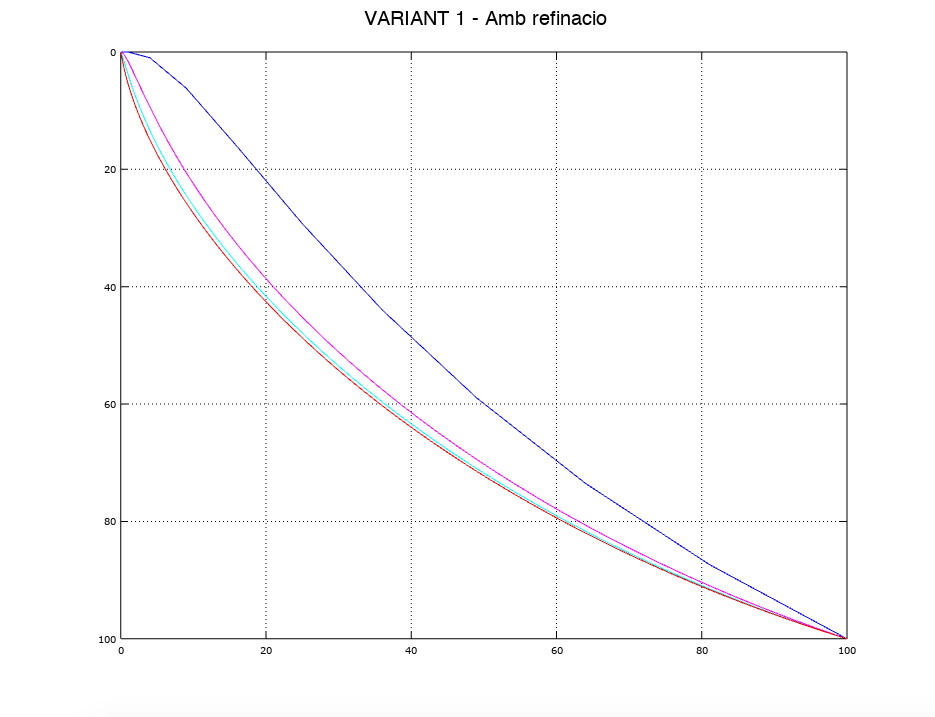
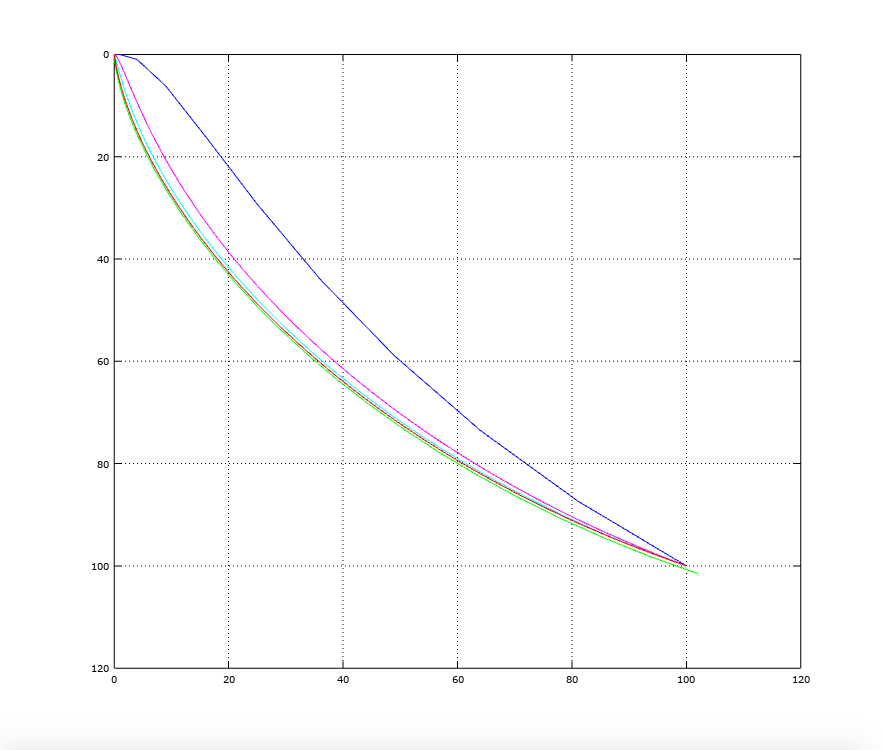
totes les gràfiques estan acabadessssssssss

diff --git a/braquistocrona/var1/grafiquesVar1SenseRef.m b/braquistocrona/var1/grafiquesVar1SenseRef.m
@@ -7,23 +7,24 @@ y = r*(1-cos(t));
 plot(x,y, "color", "g"); hold;
 
 #10 punts sense refinació - blau
-x = [0 ,1 ,4 ,9 ,16 ,25 ,36 ,49 ,64 ,81 ,100]; 
-y = [1e-12 ,0.0047782 ,0.976377 ,6.15185 ,16.087 ,29.2681 ,43.9572 ,58.9399 ,73.5254 ,87.3089 ,100]; 
+x = [0 ,10 ,20 ,30 ,40 ,50 ,60 ,70 ,80 ,90 ,100]; 
+y = [1e-12 ,0.0193269 ,2.78473 ,12.4953 ,25.9926 ,40.4005 ,54.3179 ,67.253 ,79.1277 ,90.0093 ,100]; 
 plot(x,y, "color", 'b');
 
 #50 punts sense refinació - magenta
-x = [0 ,0.04 ,0.16 ,0.36 ,0.64 ,1 ,1.44 ,1.96 ,2.56 ,3.24 ,4 ,4.84 ,5.76 ,6.76 ,7.84 ,9 ,10.24 ,11.56 ,12.96 ,14.44 ,16 ,17.64 ,19.36 ,21.16 ,23.04 ,25 ,27.04 ,29.16 ,31.36 ,33.64 ,36 ,38.44 ,40.96 ,43.56 ,46.24 ,49 ,51.84 ,54.76 ,57.76 ,60.84 ,64 ,67.24 ,70.56 ,73.96 ,77.44 ,81 ,84.64 ,88.36 ,92.16 ,96.04 ,100]; 
-y = [1e-12 ,0.000366977 ,0.0469438 ,0.286603 ,0.799453 ,1.60644 ,2.6999 ,4.05604 ,5.64254 ,7.4239 ,9.3654 ,11.4356 ,13.6074 ,15.859 ,18.1725 ,20.5343 ,22.9335 ,25.3617 ,27.812 ,30.2791 ,32.7584 ,35.2459 ,37.7383 ,40.2325 ,42.7258 ,45.2155 ,47.6994 ,50.1749 ,52.6399 ,55.0923 ,57.53 ,59.9507 ,62.3526 ,64.7335 ,67.0914 ,69.4243 ,71.7302 ,74.0069 ,76.2526 ,78.4651 ,80.6423 ,82.7822 ,84.8826 ,86.9414 ,88.9565 ,90.9255 ,92.8462 ,94.7164 ,96.5337 ,98.2957 ,100]; 
+x = [0 ,2 ,4 ,6 ,8 ,10 ,12 ,14 ,16 ,18 ,20 ,22 ,24 ,26 ,28 ,30 ,32 ,34 ,36 ,38 ,40 ,42 ,44 ,46 ,48 ,50 ,52 ,54 ,56 ,58 ,60 ,62 ,64 ,66 ,68 ,70 ,72 ,74 ,76 ,78 ,80 ,82 ,84 ,86 ,88 ,90 ,92 ,94 ,96 ,98 ,100]; 
+y = [1e-12 ,0.00534903 ,0.610353 ,2.70123 ,5.7888 ,9.37971 ,13.1617 ,16.9513 ,20.65 ,24.2121 ,27.6215 ,30.8777 ,33.9873 ,36.9599 ,39.8057 ,42.5346 ,45.1557 ,47.6774 ,50.1071 ,52.4513 ,54.7159 ,56.9062 ,59.0267 ,61.0815 ,63.0746 ,65.009 ,66.888 ,68.7141 ,70.49 ,72.2179 ,73.8998 ,75.5376 ,77.1331 ,78.6879 ,80.2035 ,81.6812 ,83.1224 ,84.5281 ,85.8996 ,87.2378 ,88.5437 ,89.8182 ,91.0621 ,92.2763 ,93.4615 ,94.6184 ,95.7476 ,96.8498 ,97.9256 ,98.9755 ,100]; 
 plot(x,y, "color", 'm');
 
 #200 punts sense refinació - cyan
-x = [0 ,0.0025 ,0.01 ,0.0225 ,0.04 ,0.0625 ,0.09 ,0.1225 ,0.16 ,0.2025 ,0.25 ,0.3025 ,0.36 ,0.4225 ,0.49 ,0.5625 ,0.64 ,0.7225 ,0.81 ,0.9025 ,1 ,1.1025 ,1.21 ,1.3225 ,1.44 ,1.5625 ,1.69 ,1.8225 ,1.96 ,2.1025 ,2.25 ,2.4025 ,2.56 ,2.7225 ,2.89 ,3.0625 ,3.24 ,3.4225 ,3.61 ,3.8025 ,4 ,4.2025 ,4.41 ,4.6225 ,4.84 ,5.0625 ,5.29 ,5.5225 ,5.76 ,6.0025 ,6.25 ,6.5025 ,6.76 ,7.0225 ,7.29 ,7.5625 ,7.84 ,8.1225 ,8.41 ,8.7025 ,9 ,9.3025 ,9.61 ,9.9225 ,10.24 ,10.5625 ,10.89 ,11.2225 ,11.56 ,11.9025 ,12.25 ,12.6025 ,12.96 ,13.3225 ,13.69 ,14.0625 ,14.44 ,14.8225 ,15.21 ,15.6025 ,16 ,16.4025 ,16.81 ,17.2225 ,17.64 ,18.0625 ,18.49 ,18.9225 ,19.36 ,19.8025 ,20.25 ,20.7025 ,21.16 ,21.6225 ,22.09 ,22.5625 ,23.04 ,23.5225 ,24.01 ,24.5025 ,25 ,25.5025 ,26.01 ,26.5225 ,27.04 ,27.5625 ,28.09 ,28.6225 ,29.16 ,29.7025 ,30.25 ,30.8025 ,31.36 ,31.9225 ,32.49 ,33.0625 ,33.64 ,34.2225 ,34.81 ,35.4025 ,36 ,36.6025 ,37.21 ,37.8225 ,38.44 ,39.0625 ,39.69 ,40.3225 ,40.96 ,41.6025 ,42.25 ,42.9025 ,43.56 ,44.2225 ,44.89 ,45.5625 ,46.24 ,46.9225 ,47.61 ,48.3025 ,49 ,49.7025 ,50.41 ,51.1225 ,51.84 ,52.5625 ,53.29 ,54.0225 ,54.76 ,55.5025 ,56.25 ,57.0025 ,57.76 ,58.5225 ,59.29 ,60.0625 ,60.84 ,61.6225 ,62.41 ,63.2025 ,64 ,64.8025 ,65.61 ,66.4225 ,67.24 ,68.0625 ,68.89 ,69.7225 ,70.56 ,71.4025 ,72.25 ,73.1025 ,73.96 ,74.8225 ,75.69 ,76.5625 ,77.44 ,78.3225 ,79.21 ,80.1025 ,81 ,81.9025 ,82.81 ,83.7225 ,84.64 ,85.5625 ,86.49 ,87.4225 ,88.36 ,89.3025 ,90.25 ,91.2025 ,92.16 ,93.1225 ,94.09 ,95.0625 ,96.04 ,97.0225 ,98.01 ,99.0025 ,100]; 
-y = [1e-12 ,4.0323e-05 ,0.00341836 ,0.0195923 ,0.0546356 ,0.111918 ,0.193487 ,0.300528 ,0.433597 ,0.592767 ,0.777732 ,0.987884 ,1.22238 ,1.48021 ,1.76022 ,2.06118 ,2.3818 ,2.72078 ,3.07681 ,3.44864 ,3.83504 ,4.23486 ,4.64702 ,5.07049 ,5.50435 ,5.94775 ,6.39991 ,6.86014 ,7.32779 ,7.80231 ,8.28319 ,8.76996 ,9.26223 ,9.75962 ,10.2618 ,10.7685 ,11.2794 ,11.7944 ,12.3131 ,12.8354 ,13.3611 ,13.89 ,14.422 ,14.957 ,15.4948 ,16.0353 ,16.5784 ,17.124 ,17.6719 ,18.2222 ,18.7746 ,19.3292 ,19.8858 ,20.4443 ,21.0048 ,21.5671 ,22.1311 ,22.6968 ,23.2641 ,23.833 ,24.4034 ,24.9752 ,25.5484 ,26.123 ,26.6988 ,27.2759 ,27.8541 ,28.4334 ,29.0138 ,29.5953 ,30.1777 ,30.761 ,31.3452 ,31.9303 ,32.5161 ,33.1027 ,33.69 ,34.278 ,34.8665 ,35.4557 ,36.0453 ,36.6355 ,37.2261 ,37.8171 ,38.4085 ,39.0002 ,39.5922 ,40.1844 ,40.7769 ,41.3695 ,41.9623 ,42.5551 ,43.148 ,43.741 ,44.3339 ,44.9267 ,45.5195 ,46.1121 ,46.7046 ,47.2968 ,47.8889 ,48.4806 ,49.072 ,49.6631 ,50.2538 ,50.8441 ,51.434 ,52.0233 ,52.6121 ,53.2004 ,53.7881 ,54.3751 ,54.9615 ,55.5472 ,56.1322 ,56.7164 ,57.2998 ,57.8824 ,58.4641 ,59.0449 ,59.6248 ,60.2037 ,60.7816 ,61.3585 ,61.9343 ,62.509 ,63.0826 ,63.655 ,64.2262 ,64.7962 ,65.3649 ,65.9323 ,66.4983 ,67.063 ,67.6263 ,68.1882 ,68.7486 ,69.3075 ,69.8648 ,70.4206 ,70.9748 ,71.5274 ,72.0782 ,72.6274 ,73.1749 ,73.7206 ,74.2644 ,74.8065 ,75.3467 ,75.8849 ,76.4213 ,76.9556 ,77.488 ,78.0183 ,78.5466 ,79.0727 ,79.5967 ,80.1186 ,80.6382 ,81.1556 ,81.6707 ,82.1835 ,82.694 ,83.202 ,83.7077 ,84.2109 ,84.7117 ,85.2099 ,85.7055 ,86.1986 ,86.689 ,87.1768 ,87.6619 ,88.1442 ,88.6238 ,89.1006 ,89.5745 ,90.0456 ,90.5138 ,90.979 ,91.4412 ,91.9004 ,92.3565 ,92.8095 ,93.2594 ,93.7062 ,94.1497 ,94.5899 ,95.0269 ,95.4606 ,95.8909 ,96.3177 ,96.7412 ,97.1611 ,97.5776 ,97.9904 ,98.3997 ,98.8054 ,99.2073 ,99.6055 ,100]; 
+x = [0 ,0.5 ,1 ,1.5 ,2 ,2.5 ,3 ,3.5 ,4 ,4.5 ,5 ,5.5 ,6 ,6.5 ,7 ,7.5 ,8 ,8.5 ,9 ,9.5 ,10 ,10.5 ,11 ,11.5 ,12 ,12.5 ,13 ,13.5 ,14 ,14.5 ,15 ,15.5 ,16 ,16.5 ,17 ,17.5 ,18 ,18.5 ,19 ,19.5 ,20 ,20.5 ,21 ,21.5 ,22 ,22.5 ,23 ,23.5 ,24 ,24.5 ,25 ,25.5 ,26 ,26.5 ,27 ,27.5 ,28 ,28.5 ,29 ,29.5 ,30 ,30.5 ,31 ,31.5 ,32 ,32.5 ,33 ,33.5 ,34 ,34.5 ,35 ,35.5 ,36 ,36.5 ,37 ,37.5 ,38 ,38.5 ,39 ,39.5 ,40 ,40.5 ,41 ,41.5 ,42 ,42.5 ,43 ,43.5 ,44 ,44.5 ,45 ,45.5 ,46 ,46.5 ,47 ,47.5 ,48 ,48.5 ,49 ,49.5 ,50 ,50.5 ,51 ,51.5 ,52 ,52.5 ,53 ,53.5 ,54 ,54.5 ,55 ,55.5 ,56 ,56.5 ,57 ,57.5 ,58 ,58.5 ,59 ,59.5 ,60 ,60.5 ,61 ,61.5 ,62 ,62.5 ,63 ,63.5 ,64 ,64.5 ,65 ,65.5 ,66 ,66.5 ,67 ,67.5 ,68 ,68.5 ,69 ,69.5 ,70 ,70.5 ,71 ,71.5 ,72 ,72.5 ,73 ,73.5 ,74 ,74.5 ,75 ,75.5 ,76 ,76.5 ,77 ,77.5 ,78 ,78.5 ,79 ,79.5 ,80 ,80.5 ,81 ,81.5 ,82 ,82.5 ,83 ,83.5 ,84 ,84.5 ,85 ,85.5 ,86 ,86.5 ,87 ,87.5 ,88 ,88.5 ,89 ,89.5 ,90 ,90.5 ,91 ,91.5 ,92 ,92.5 ,93 ,93.5 ,94 ,94.5 ,95 ,95.5 ,96 ,96.5 ,97 ,97.5 ,98 ,98.5 ,99 ,99.5 ,100]; 
+y = [1e-12 ,0.00176979 ,0.164976 ,0.716104 ,1.55749 ,2.58889 ,3.74178 ,4.96811 ,6.23368 ,7.51433 ,8.79335 ,10.0595 ,11.3057 ,12.5275 ,13.7227 ,14.8902 ,16.03 ,17.1426 ,18.2287 ,19.2893 ,20.3257 ,21.3388 ,22.3299 ,23.2999 ,24.25 ,25.181 ,26.0941 ,26.9898 ,27.8692 ,28.733 ,29.5818 ,30.4163 ,31.2371 ,32.0448 ,32.8399 ,33.6229 ,34.3944 ,35.1546 ,35.904 ,36.6431 ,37.3721 ,38.0914 ,38.8013 ,39.5022 ,40.1942 ,40.8778 ,41.5531 ,42.2203 ,42.8798 ,43.5317 ,44.1762 ,44.8135 ,45.4438 ,46.0673 ,46.6842 ,47.2946 ,47.8987 ,48.4966 ,49.0884 ,49.6744 ,50.2546 ,50.8291 ,51.3981 ,51.9617 ,52.5201 ,53.0732 ,53.6212 ,54.1643 ,54.7024 ,55.2357 ,55.7644 ,56.2884 ,56.8078 ,57.3228 ,57.8334 ,58.3397 ,58.8417 ,59.3395 ,59.8333 ,60.323 ,60.8087 ,61.2905 ,61.7684 ,62.2425 ,62.7129 ,63.1796 ,63.6427 ,64.1021 ,64.5581 ,65.0105 ,65.4595 ,65.9051 ,66.3474 ,66.7863 ,67.222 ,67.6544 ,68.0837 ,68.5098 ,68.9328 ,69.3527 ,69.7697 ,70.1836 ,70.5945 ,71.0025 ,71.4076 ,71.8099 ,72.2093 ,72.6059 ,72.9997 ,73.3908 ,73.7792 ,74.1648 ,74.5479 ,74.9283 ,75.306 ,75.6812 ,76.0539 ,76.424 ,76.7916 ,77.1567 ,77.5194 ,77.8796 ,78.2374 ,78.5928 ,78.9458 ,79.2965 ,79.6448 ,79.9909 ,80.3346 ,80.6761 ,81.0153 ,81.3522 ,81.687 ,82.0196 ,82.3499 ,82.6781 ,83.0042 ,83.3281 ,83.6499 ,83.9697 ,84.2873 ,84.6029 ,84.9164 ,85.2278 ,85.5373 ,85.8447 ,86.1502 ,86.4537 ,86.7552 ,87.0547 ,87.3523 ,87.648 ,87.9418 ,88.2336 ,88.5236 ,88.8117 ,89.0979 ,89.3823 ,89.6649 ,89.9456 ,90.2245 ,90.5016 ,90.7768 ,91.0503 ,91.3221 ,91.592 ,91.8602 ,92.1267 ,92.3914 ,92.6544 ,92.9157 ,93.1753 ,93.4332 ,93.6894 ,93.944 ,94.1968 ,94.448 ,94.6976 ,94.9455 ,95.1917 ,95.4364 ,95.6794 ,95.9209 ,96.1607 ,96.3989 ,96.6355 ,96.8706 ,97.1041 ,97.336 ,97.5664 ,97.7953 ,98.0226 ,98.2483 ,98.4725 ,98.6953 ,98.9165 ,99.1362 ,99.3543 ,99.5711 ,99.7863 ,100]; 
 plot(x,y, "color", 'c');
 
 #1000 punts tant amb refinació com sense -  roig
 x = [0 ,0.0001 ,0.0004 ,0.0009 ,0.0016 ,0.0025 ,0.0036 ,0.0049 ,0.0064 ,0.0081 ,0.01 ,0.0121 ,0.0144 ,0.0169 ,0.0196 ,0.0225 ,0.0256 ,0.0289 ,0.0324 ,0.0361 ,0.04 ,0.0441 ,0.0484 ,0.0529 ,0.0576 ,0.0625 ,0.0676 ,0.0729 ,0.0784 ,0.0841 ,0.09 ,0.0961 ,0.1024 ,0.1089 ,0.1156 ,0.1225 ,0.1296 ,0.1369 ,0.1444 ,0.1521 ,0.16 ,0.1681 ,0.1764 ,0.1849 ,0.1936 ,0.2025 ,0.2116 ,0.2209 ,0.2304 ,0.2401 ,0.25 ,0.2601 ,0.2704 ,0.2809 ,0.2916 ,0.3025 ,0.3136 ,0.3249 ,0.3364 ,0.3481 ,0.36 ,0.3721 ,0.3844 ,0.3969 ,0.4096 ,0.4225 ,0.4356 ,0.4489 ,0.4624 ,0.4761 ,0.49 ,0.5041 ,0.5184 ,0.5329 ,0.5476 ,0.5625 ,0.5776 ,0.5929 ,0.6084 ,0.6241 ,0.64 ,0.6561 ,0.6724 ,0.6889 ,0.7056 ,0.7225 ,0.7396 ,0.7569 ,0.7744 ,0.7921 ,0.81 ,0.8281 ,0.8464 ,0.8649 ,0.8836 ,0.9025 ,0.9216 ,0.9409 ,0.9604 ,0.9801 ,1 ,1.0201 ,1.0404 ,1.0609 ,1.0816 ,1.1025 ,1.1236 ,1.1449 ,1.1664 ,1.1881 ,1.21 ,1.2321 ,1.2544 ,1.2769 ,1.2996 ,1.3225 ,1.3456 ,1.3689 ,1.3924 ,1.4161 ,1.44 ,1.4641 ,1.4884 ,1.5129 ,1.5376 ,1.5625 ,1.5876 ,1.6129 ,1.6384 ,1.6641 ,1.69 ,1.7161 ,1.7424 ,1.7689 ,1.7956 ,1.8225 ,1.8496 ,1.8769 ,1.9044 ,1.9321 ,1.96 ,1.9881 ,2.0164 ,2.0449 ,2.0736 ,2.1025 ,2.1316 ,2.1609 ,2.1904 ,2.2201 ,2.25 ,2.2801 ,2.3104 ,2.3409 ,2.3716 ,2.4025 ,2.4336 ,2.4649 ,2.4964 ,2.5281 ,2.56 ,2.5921 ,2.6244 ,2.6569 ,2.6896 ,2.7225 ,2.7556 ,2.7889 ,2.8224 ,2.8561 ,2.89 ,2.9241 ,2.9584 ,2.9929 ,3.0276 ,3.0625 ,3.0976 ,3.1329 ,3.1684 ,3.2041 ,3.24 ,3.2761 ,3.3124 ,3.3489 ,3.3856 ,3.4225 ,3.4596 ,3.4969 ,3.5344 ,3.5721 ,3.61 ,3.6481 ,3.6864 ,3.7249 ,3.7636 ,3.8025 ,3.8416 ,3.8809 ,3.9204 ,3.9601 ,4 ,4.0401 ,4.0804 ,4.1209 ,4.1616 ,4.2025 ,4.2436 ,4.2849 ,4.3264 ,4.3681 ,4.41 ,4.4521 ,4.4944 ,4.5369 ,4.5796 ,4.6225 ,4.6656 ,4.7089 ,4.7524 ,4.7961 ,4.84 ,4.8841 ,4.9284 ,4.9729 ,5.0176 ,5.0625 ,5.1076 ,5.1529 ,5.1984 ,5.2441 ,5.29 ,5.3361 ,5.3824 ,5.4289 ,5.4756 ,5.5225 ,5.5696 ,5.6169 ,5.6644 ,5.7121 ,5.76 ,5.8081 ,5.8564 ,5.9049 ,5.9536 ,6.0025 ,6.0516 ,6.1009 ,6.1504 ,6.2001 ,6.25 ,6.3001 ,6.3504 ,6.4009 ,6.4516 ,6.5025 ,6.5536 ,6.6049 ,6.6564 ,6.7081 ,6.76 ,6.8121 ,6.8644 ,6.9169 ,6.9696 ,7.0225 ,7.0756 ,7.1289 ,7.1824 ,7.2361 ,7.29 ,7.3441 ,7.3984 ,7.4529 ,7.5076 ,7.5625 ,7.6176 ,7.6729 ,7.7284 ,7.7841 ,7.84 ,7.8961 ,7.9524 ,8.0089 ,8.0656 ,8.1225 ,8.1796 ,8.2369 ,8.2944 ,8.3521 ,8.41 ,8.4681 ,8.5264 ,8.5849 ,8.6436 ,8.7025 ,8.7616 ,8.8209 ,8.8804 ,8.9401 ,9 ,9.0601 ,9.1204 ,9.1809 ,9.2416 ,9.3025 ,9.3636 ,9.4249 ,9.4864 ,9.5481 ,9.61 ,9.6721 ,9.7344 ,9.7969 ,9.8596 ,9.9225 ,9.9856 ,10.0489 ,10.1124 ,10.1761 ,10.24 ,10.3041 ,10.3684 ,10.4329 ,10.4976 ,10.5625 ,10.6276 ,10.6929 ,10.7584 ,10.8241 ,10.89 ,10.9561 ,11.0224 ,11.0889 ,11.1556 ,11.2225 ,11.2896 ,11.3569 ,11.4244 ,11.4921 ,11.56 ,11.6281 ,11.6964 ,11.7649 ,11.8336 ,11.9025 ,11.9716 ,12.0409 ,12.1104 ,12.1801 ,12.25 ,12.3201 ,12.3904 ,12.4609 ,12.5316 ,12.6025 ,12.6736 ,12.7449 ,12.8164 ,12.8881 ,12.96 ,13.0321 ,13.1044 ,13.1769 ,13.2496 ,13.3225 ,13.3956 ,13.4689 ,13.5424 ,13.6161 ,13.69 ,13.7641 ,13.8384 ,13.9129 ,13.9876 ,14.0625 ,14.1376 ,14.2129 ,14.2884 ,14.3641 ,14.44 ,14.5161 ,14.5924 ,14.6689 ,14.7456 ,14.8225 ,14.8996 ,14.9769 ,15.0544 ,15.1321 ,15.21 ,15.2881 ,15.3664 ,15.4449 ,15.5236 ,15.6025 ,15.6816 ,15.7609 ,15.8404 ,15.9201 ,16 ,16.0801 ,16.1604 ,16.2409 ,16.3216 ,16.4025 ,16.4836 ,16.5649 ,16.6464 ,16.7281 ,16.81 ,16.8921 ,16.9744 ,17.0569 ,17.1396 ,17.2225 ,17.3056 ,17.3889 ,17.4724 ,17.5561 ,17.64 ,17.7241 ,17.8084 ,17.8929 ,17.9776 ,18.0625 ,18.1476 ,18.2329 ,18.3184 ,18.4041 ,18.49 ,18.5761 ,18.6624 ,18.7489 ,18.8356 ,18.9225 ,19.0096 ,19.0969 ,19.1844 ,19.2721 ,19.36 ,19.4481 ,19.5364 ,19.6249 ,19.7136 ,19.8025 ,19.8916 ,19.9809 ,20.0704 ,20.1601 ,20.25 ,20.3401 ,20.4304 ,20.5209 ,20.6116 ,20.7025 ,20.7936 ,20.8849 ,20.9764 ,21.0681 ,21.16 ,21.2521 ,21.3444 ,21.4369 ,21.5296 ,21.6225 ,21.7156 ,21.8089 ,21.9024 ,21.9961 ,22.09 ,22.1841 ,22.2784 ,22.3729 ,22.4676 ,22.5625 ,22.6576 ,22.7529 ,22.8484 ,22.9441 ,23.04 ,23.1361 ,23.2324 ,23.3289 ,23.4256 ,23.5225 ,23.6196 ,23.7169 ,23.8144 ,23.9121 ,24.01 ,24.1081 ,24.2064 ,24.3049 ,24.4036 ,24.5025 ,24.6016 ,24.7009 ,24.8004 ,24.9001 ,25 ,25.1001 ,25.2004 ,25.3009 ,25.4016 ,25.5025 ,25.6036 ,25.7049 ,25.8064 ,25.9081 ,26.01 ,26.1121 ,26.2144 ,26.3169 ,26.4196 ,26.5225 ,26.6256 ,26.7289 ,26.8324 ,26.9361 ,27.04 ,27.1441 ,27.2484 ,27.3529 ,27.4576 ,27.5625 ,27.6676 ,27.7729 ,27.8784 ,27.9841 ,28.09 ,28.1961 ,28.3024 ,28.4089 ,28.5156 ,28.6225 ,28.7296 ,28.8369 ,28.9444 ,29.0521 ,29.16 ,29.2681 ,29.3764 ,29.4849 ,29.5936 ,29.7025 ,29.8116 ,29.9209 ,30.0304 ,30.1401 ,30.25 ,30.3601 ,30.4704 ,30.5809 ,30.6916 ,30.8025 ,30.9136 ,31.0249 ,31.1364 ,31.2481 ,31.36 ,31.4721 ,31.5844 ,31.6969 ,31.8096 ,31.9225 ,32.0356 ,32.1489 ,32.2624 ,32.3761 ,32.49 ,32.6041 ,32.7184 ,32.8329 ,32.9476 ,33.0625 ,33.1776 ,33.2929 ,33.4084 ,33.5241 ,33.64 ,33.7561 ,33.8724 ,33.9889 ,34.1056 ,34.2225 ,34.3396 ,34.4569 ,34.5744 ,34.6921 ,34.81 ,34.9281 ,35.0464 ,35.1649 ,35.2836 ,35.4025 ,35.5216 ,35.6409 ,35.7604 ,35.8801 ,36 ,36.1201 ,36.2404 ,36.3609 ,36.4816 ,36.6025 ,36.7236 ,36.8449 ,36.9664 ,37.0881 ,37.21 ,37.3321 ,37.4544 ,37.5769 ,37.6996 ,37.8225 ,37.9456 ,38.0689 ,38.1924 ,38.3161 ,38.44 ,38.5641 ,38.6884 ,38.8129 ,38.9376 ,39.0625 ,39.1876 ,39.3129 ,39.4384 ,39.5641 ,39.69 ,39.8161 ,39.9424 ,40.0689 ,40.1956 ,40.3225 ,40.4496 ,40.5769 ,40.7044 ,40.8321 ,40.96 ,41.0881 ,41.2164 ,41.3449 ,41.4736 ,41.6025 ,41.7316 ,41.8609 ,41.9904 ,42.1201 ,42.25 ,42.3801 ,42.5104 ,42.6409 ,42.7716 ,42.9025 ,43.0336 ,43.1649 ,43.2964 ,43.4281 ,43.56 ,43.6921 ,43.8244 ,43.9569 ,44.0896 ,44.2225 ,44.3556 ,44.4889 ,44.6224 ,44.7561 ,44.89 ,45.0241 ,45.1584 ,45.2929 ,45.4276 ,45.5625 ,45.6976 ,45.8329 ,45.9684 ,46.1041 ,46.24 ,46.3761 ,46.5124 ,46.6489 ,46.7856 ,46.9225 ,47.0596 ,47.1969 ,47.3344 ,47.4721 ,47.61 ,47.7481 ,47.8864 ,48.0249 ,48.1636 ,48.3025 ,48.4416 ,48.5809 ,48.7204 ,48.8601 ,49 ,49.1401 ,49.2804 ,49.4209 ,49.5616 ,49.7025 ,49.8436 ,49.9849 ,50.1264 ,50.2681 ,50.41 ,50.5521 ,50.6944 ,50.8369 ,50.9796 ,51.1225 ,51.2656 ,51.4089 ,51.5524 ,51.6961 ,51.84 ,51.9841 ,52.1284 ,52.2729 ,52.4176 ,52.5625 ,52.7076 ,52.8529 ,52.9984 ,53.1441 ,53.29 ,53.4361 ,53.5824 ,53.7289 ,53.8756 ,54.0225 ,54.1696 ,54.3169 ,54.4644 ,54.6121 ,54.76 ,54.9081 ,55.0564 ,55.2049 ,55.3536 ,55.5025 ,55.6516 ,55.8009 ,55.9504 ,56.1001 ,56.25 ,56.4001 ,56.5504 ,56.7009 ,56.8516 ,57.0025 ,57.1536 ,57.3049 ,57.4564 ,57.6081 ,57.76 ,57.9121 ,58.0644 ,58.2169 ,58.3696 ,58.5225 ,58.6756 ,58.8289 ,58.9824 ,59.1361 ,59.29 ,59.4441 ,59.5984 ,59.7529 ,59.9076 ,60.0625 ,60.2176 ,60.3729 ,60.5284 ,60.6841 ,60.84 ,60.9961 ,61.1524 ,61.3089 ,61.4656 ,61.6225 ,61.7796 ,61.9369 ,62.0944 ,62.2521 ,62.41 ,62.5681 ,62.7264 ,62.8849 ,63.0436 ,63.2025 ,63.3616 ,63.5209 ,63.6804 ,63.8401 ,64 ,64.1601 ,64.3204 ,64.4809 ,64.6416 ,64.8025 ,64.9636 ,65.1249 ,65.2864 ,65.4481 ,65.61 ,65.7721 ,65.9344 ,66.0969 ,66.2596 ,66.4225 ,66.5856 ,66.7489 ,66.9124 ,67.0761 ,67.24 ,67.4041 ,67.5684 ,67.7329 ,67.8976 ,68.0625 ,68.2276 ,68.3929 ,68.5584 ,68.7241 ,68.89 ,69.0561 ,69.2224 ,69.3889 ,69.5556 ,69.7225 ,69.8896 ,70.0569 ,70.2244 ,70.3921 ,70.56 ,70.7281 ,70.8964 ,71.0649 ,71.2336 ,71.4025 ,71.5716 ,71.7409 ,71.9104 ,72.0801 ,72.25 ,72.4201 ,72.5904 ,72.7609 ,72.9316 ,73.1025 ,73.2736 ,73.4449 ,73.6164 ,73.7881 ,73.96 ,74.1321 ,74.3044 ,74.4769 ,74.6496 ,74.8225 ,74.9956 ,75.1689 ,75.3424 ,75.5161 ,75.69 ,75.8641 ,76.0384 ,76.2129 ,76.3876 ,76.5625 ,76.7376 ,76.9129 ,77.0884 ,77.2641 ,77.44 ,77.6161 ,77.7924 ,77.9689 ,78.1456 ,78.3225 ,78.4996 ,78.6769 ,78.8544 ,79.0321 ,79.21 ,79.3881 ,79.5664 ,79.7449 ,79.9236 ,80.1025 ,80.2816 ,80.4609 ,80.6404 ,80.8201 ,81 ,81.1801 ,81.3604 ,81.5409 ,81.7216 ,81.9025 ,82.0836 ,82.2649 ,82.4464 ,82.6281 ,82.81 ,82.9921 ,83.1744 ,83.3569 ,83.5396 ,83.7225 ,83.9056 ,84.0889 ,84.2724 ,84.4561 ,84.64 ,84.8241 ,85.0084 ,85.1929 ,85.3776 ,85.5625 ,85.7476 ,85.9329 ,86.1184 ,86.3041 ,86.49 ,86.6761 ,86.8624 ,87.0489 ,87.2356 ,87.4225 ,87.6096 ,87.7969 ,87.9844 ,88.1721 ,88.36 ,88.5481 ,88.7364 ,88.9249 ,89.1136 ,89.3025 ,89.4916 ,89.6809 ,89.8704 ,90.0601 ,90.25 ,90.4401 ,90.6304 ,90.8209 ,91.0116 ,91.2025 ,91.3936 ,91.5849 ,91.7764 ,91.9681 ,92.16 ,92.3521 ,92.5444 ,92.7369 ,92.9296 ,93.1225 ,93.3156 ,93.5089 ,93.7024 ,93.8961 ,94.09 ,94.2841 ,94.4784 ,94.6729 ,94.8676 ,95.0625 ,95.2576 ,95.4529 ,95.6484 ,95.8441 ,96.04 ,96.2361 ,96.4324 ,96.6289 ,96.8256 ,97.0225 ,97.2196 ,97.4169 ,97.6144 ,97.8121 ,98.01 ,98.2081 ,98.4064 ,98.6049 ,98.8036 ,99.0025 ,99.2016 ,99.4009 ,99.6004 ,99.8001 ,100]; 
 y = [1e-12 ,3.11859e-06 ,0.000163937 ,0.000859794 ,0.00234565 ,0.00479226 ,0.00833016 ,0.0130643 ,0.0190809 ,0.0264518 ,0.0352364 ,0.0454844 ,0.0572365 ,0.0705258 ,0.0853784 ,0.101815 ,0.119849 ,0.139492 ,0.160748 ,0.183618 ,0.2081 ,0.234188 ,0.261872 ,0.29114 ,0.321979 ,0.354371 ,0.388297 ,0.423737 ,0.460667 ,0.499064 ,0.538902 ,0.580156 ,0.622796 ,0.666795 ,0.712125 ,0.758754 ,0.806654 ,0.855794 ,0.906142 ,0.95767 ,1.01035 ,1.06414 ,1.11902 ,1.17496 ,1.23192 ,1.28989 ,1.34882 ,1.40869 ,1.46948 ,1.53115 ,1.59368 ,1.65705 ,1.72122 ,1.78618 ,1.8519 ,1.91835 ,1.98552 ,2.05339 ,2.12192 ,2.19111 ,2.26093 ,2.33137 ,2.4024 ,2.47401 ,2.54619 ,2.61891 ,2.69216 ,2.76593 ,2.8402 ,2.91496 ,2.9902 ,3.0659 ,3.14205 ,3.21865 ,3.29567 ,3.37312 ,3.45097 ,3.52922 ,3.60787 ,3.68689 ,3.7663 ,3.84606 ,3.92619 ,4.00666 ,4.08748 ,4.16864 ,4.25013 ,4.33194 ,4.41407 ,4.49651 ,4.57926 ,4.66232 ,4.74566 ,4.82931 ,4.91324 ,4.99745 ,5.08194 ,5.1667 ,5.25174 ,5.33704 ,5.4226 ,5.50843 ,5.59451 ,5.68084 ,5.76742 ,5.85424 ,5.94131 ,6.02862 ,6.11616 ,6.20394 ,6.29195 ,6.38019 ,6.46866 ,6.55735 ,6.64626 ,6.73539 ,6.82474 ,6.9143 ,7.00407 ,7.09405 ,7.18425 ,7.27464 ,7.36525 ,7.45605 ,7.54706 ,7.63826 ,7.72966 ,7.82126 ,7.91305 ,8.00503 ,8.0972 ,8.18956 ,8.28211 ,8.37484 ,8.46776 ,8.56086 ,8.65414 ,8.74759 ,8.84123 ,8.93505 ,9.02904 ,9.1232 ,9.21754 ,9.31204 ,9.40672 ,9.50157 ,9.59659 ,9.69177 ,9.78711 ,9.88263 ,9.9783 ,10.0741 ,10.1701 ,10.2663 ,10.3626 ,10.4591 ,10.5557 ,10.6525 ,10.7494 ,10.8465 ,10.9438 ,11.0412 ,11.1387 ,11.2364 ,11.3342 ,11.4322 ,11.5304 ,11.6286 ,11.7271 ,11.8256 ,11.9243 ,12.0232 ,12.1222 ,12.2213 ,12.3206 ,12.42 ,12.5195 ,12.6192 ,12.719 ,12.819 ,12.9191 ,13.0193 ,13.1197 ,13.2201 ,13.3208 ,13.4215 ,13.5224 ,13.6234 ,13.7245 ,13.8258 ,13.9271 ,14.0286 ,14.1303 ,14.232 ,14.3339 ,14.4359 ,14.538 ,14.6403 ,14.7426 ,14.8451 ,14.9477 ,15.0504 ,15.1533 ,15.2562 ,15.3593 ,15.4624 ,15.5657 ,15.6691 ,15.7727 ,15.8763 ,15.98 ,16.0839 ,16.1879 ,16.2919 ,16.3961 ,16.5004 ,16.6048 ,16.7093 ,16.8139 ,16.9186 ,17.0235 ,17.1284 ,17.2334 ,17.3385 ,17.4438 ,17.5491 ,17.6546 ,17.7601 ,17.8657 ,17.9715 ,18.0773 ,18.1833 ,18.2893 ,18.3954 ,18.5016 ,18.608 ,18.7144 ,18.8209 ,18.9275 ,19.0342 ,19.141 ,19.2479 ,19.3549 ,19.4619 ,19.5691 ,19.6764 ,19.7837 ,19.8911 ,19.9986 ,20.1063 ,20.214 ,20.3217 ,20.4296 ,20.5376 ,20.6456 ,20.7537 ,20.8619 ,20.9702 ,21.0786 ,21.187 ,21.2956 ,21.4042 ,21.5129 ,21.6217 ,21.7306 ,21.8395 ,21.9485 ,22.0576 ,22.1668 ,22.2761 ,22.3854 ,22.4948 ,22.6043 ,22.7139 ,22.8235 ,22.9332 ,23.043 ,23.1528 ,23.2628 ,23.3728 ,23.4829 ,23.593 ,23.7032 ,23.8135 ,23.9239 ,24.0343 ,24.1448 ,24.2554 ,24.366 ,24.4767 ,24.5875 ,24.6983 ,24.8093 ,24.9202 ,25.0313 ,25.1424 ,25.2535 ,25.3648 ,25.4761 ,25.5874 ,25.6989 ,25.8103 ,25.9219 ,26.0335 ,26.1452 ,26.2569 ,26.3687 ,26.4805 ,26.5925 ,26.7044 ,26.8165 ,26.9285 ,27.0407 ,27.1529 ,27.2651 ,27.3775 ,27.4898 ,27.6023 ,27.7147 ,27.8273 ,27.9399 ,28.0525 ,28.1652 ,28.278 ,28.3908 ,28.5036 ,28.6165 ,28.7295 ,28.8425 ,28.9556 ,29.0687 ,29.1818 ,29.295 ,29.4083 ,29.5216 ,29.635 ,29.7484 ,29.8618 ,29.9753 ,30.0889 ,30.2025 ,30.3161 ,30.4298 ,30.5435 ,30.6573 ,30.7711 ,30.8849 ,30.9988 ,31.1128 ,31.2268 ,31.3408 ,31.4549 ,31.569 ,31.6831 ,31.7973 ,31.9116 ,32.0258 ,32.1402 ,32.2545 ,32.3689 ,32.4833 ,32.5978 ,32.7123 ,32.8269 ,32.9414 ,33.0561 ,33.1707 ,33.2854 ,33.4001 ,33.5149 ,33.6297 ,33.7445 ,33.8594 ,33.9743 ,34.0892 ,34.2041 ,34.3191 ,34.4342 ,34.5492 ,34.6643 ,34.7794 ,34.8946 ,35.0098 ,35.125 ,35.2402 ,35.3555 ,35.4708 ,35.5861 ,35.7015 ,35.8169 ,35.9323 ,36.0477 ,36.1632 ,36.2787 ,36.3942 ,36.5097 ,36.6253 ,36.7409 ,36.8565 ,36.9721 ,37.0878 ,37.2035 ,37.3192 ,37.4349 ,37.5507 ,37.6665 ,37.7823 ,37.8981 ,38.0139 ,38.1298 ,38.2457 ,38.3616 ,38.4775 ,38.5935 ,38.7094 ,38.8254 ,38.9414 ,39.0574 ,39.1735 ,39.2895 ,39.4056 ,39.5217 ,39.6378 ,39.7539 ,39.8701 ,39.9862 ,40.1024 ,40.2186 ,40.3348 ,40.451 ,40.5672 ,40.6834 ,40.7997 ,40.9159 ,41.0322 ,41.1485 ,41.2648 ,41.3811 ,41.4974 ,41.6138 ,41.7301 ,41.8465 ,41.9628 ,42.0792 ,42.1956 ,42.312 ,42.4284 ,42.5448 ,42.6612 ,42.7777 ,42.8941 ,43.0105 ,43.127 ,43.2434 ,43.3599 ,43.4764 ,43.5928 ,43.7093 ,43.8258 ,43.9423 ,44.0588 ,44.1752 ,44.2917 ,44.4082 ,44.5247 ,44.6412 ,44.7578 ,44.8743 ,44.9908 ,45.1073 ,45.2238 ,45.3403 ,45.4568 ,45.5733 ,45.6899 ,45.8064 ,45.9229 ,46.0394 ,46.1559 ,46.2724 ,46.3889 ,46.5054 ,46.6219 ,46.7384 ,46.8549 ,46.9714 ,47.0879 ,47.2044 ,47.3209 ,47.4373 ,47.5538 ,47.6703 ,47.7867 ,47.9032 ,48.0196 ,48.1361 ,48.2525 ,48.3689 ,48.4854 ,48.6018 ,48.7182 ,48.8346 ,48.951 ,49.0673 ,49.1837 ,49.3001 ,49.4164 ,49.5327 ,49.6491 ,49.7654 ,49.8817 ,49.998 ,50.1143 ,50.2305 ,50.3468 ,50.463 ,50.5793 ,50.6955 ,50.8117 ,50.9279 ,51.0441 ,51.1602 ,51.2764 ,51.3925 ,51.5087 ,51.6248 ,51.7408 ,51.8569 ,51.973 ,52.089 ,52.205 ,52.321 ,52.437 ,52.553 ,52.669 ,52.7849 ,52.9008 ,53.0167 ,53.1326 ,53.2484 ,53.3643 ,53.4801 ,53.5959 ,53.7117 ,53.8274 ,53.9432 ,54.0589 ,54.1746 ,54.2902 ,54.4059 ,54.5215 ,54.6371 ,54.7527 ,54.8682 ,54.9838 ,55.0993 ,55.2148 ,55.3302 ,55.4456 ,55.5611 ,55.6764 ,55.7918 ,55.9071 ,56.0224 ,56.1377 ,56.2529 ,56.3682 ,56.4834 ,56.5985 ,56.7137 ,56.8288 ,56.9439 ,57.0589 ,57.1739 ,57.2889 ,57.4039 ,57.5188 ,57.6337 ,57.7486 ,57.8635 ,57.9783 ,58.093 ,58.2078 ,58.3225 ,58.4372 ,58.5519 ,58.6665 ,58.7811 ,58.8956 ,59.0101 ,59.1246 ,59.2391 ,59.3535 ,59.4679 ,59.5822 ,59.6965 ,59.8108 ,59.925 ,60.0392 ,60.1534 ,60.2675 ,60.3816 ,60.4957 ,60.6097 ,60.7237 ,60.8376 ,60.9515 ,61.0654 ,61.1792 ,61.293 ,61.4067 ,61.5204 ,61.6341 ,61.7477 ,61.8613 ,61.9749 ,62.0884 ,62.2018 ,62.3153 ,62.4286 ,62.542 ,62.6553 ,62.7685 ,62.8817 ,62.9949 ,63.108 ,63.2211 ,63.3341 ,63.4471 ,63.56 ,63.6729 ,63.7858 ,63.8986 ,64.0114 ,64.1241 ,64.2367 ,64.3494 ,64.4619 ,64.5745 ,64.687 ,64.7994 ,64.9118 ,65.0241 ,65.1364 ,65.2486 ,65.3608 ,65.473 ,65.5851 ,65.6971 ,65.8091 ,65.921 ,66.0329 ,66.1448 ,66.2565 ,66.3683 ,66.48 ,66.5916 ,66.7032 ,66.8147 ,66.9262 ,67.0376 ,67.1489 ,67.2603 ,67.3715 ,67.4827 ,67.5939 ,67.705 ,67.816 ,67.927 ,68.0379 ,68.1488 ,68.2596 ,68.3704 ,68.4811 ,68.5917 ,68.7023 ,68.8128 ,68.9233 ,69.0337 ,69.1441 ,69.2544 ,69.3646 ,69.4748 ,69.5849 ,69.695 ,69.805 ,69.9149 ,70.0248 ,70.1346 ,70.2444 ,70.354 ,70.4637 ,70.5733 ,70.6828 ,70.7922 ,70.9016 ,71.0109 ,71.1202 ,71.2294 ,71.3385 ,71.4476 ,71.5566 ,71.6655 ,71.7744 ,71.8832 ,71.9919 ,72.1006 ,72.2092 ,72.3177 ,72.4262 ,72.5346 ,72.643 ,72.7512 ,72.8594 ,72.9676 ,73.0757 ,73.1837 ,73.2916 ,73.3995 ,73.5072 ,73.615 ,73.7226 ,73.8302 ,73.9377 ,74.0452 ,74.1525 ,74.2598 ,74.3671 ,74.4742 ,74.5813 ,74.6883 ,74.7953 ,74.9021 ,75.0089 ,75.1157 ,75.2223 ,75.3289 ,75.4354 ,75.5418 ,75.6482 ,75.7544 ,75.8606 ,75.9668 ,76.0728 ,76.1788 ,76.2847 ,76.3905 ,76.4962 ,76.6019 ,76.7075 ,76.813 ,76.9184 ,77.0238 ,77.129 ,77.2342 ,77.3394 ,77.4444 ,77.5493 ,77.6542 ,77.759 ,77.8637 ,77.9684 ,78.0729 ,78.1774 ,78.2818 ,78.3861 ,78.4903 ,78.5945 ,78.6985 ,78.8025 ,78.9064 ,79.0102 ,79.1139 ,79.2176 ,79.3211 ,79.4246 ,79.528 ,79.6313 ,79.7345 ,79.8376 ,79.9407 ,80.0436 ,80.1465 ,80.2493 ,80.352 ,80.4546 ,80.5571 ,80.6596 ,80.7619 ,80.8642 ,80.9663 ,81.0684 ,81.1704 ,81.2723 ,81.3741 ,81.4758 ,81.5775 ,81.679 ,81.7805 ,81.8818 ,81.9831 ,82.0842 ,82.1853 ,82.2863 ,82.3872 ,82.488 ,82.5887 ,82.6893 ,82.7898 ,82.8903 ,82.9906 ,83.0908 ,83.191 ,83.291 ,83.391 ,83.4908 ,83.5906 ,83.6903 ,83.7898 ,83.8893 ,83.9887 ,84.0879 ,84.1871 ,84.2862 ,84.3852 ,84.484 ,84.5828 ,84.6815 ,84.7801 ,84.8786 ,84.9769 ,85.0752 ,85.1734 ,85.2715 ,85.3695 ,85.4673 ,85.5651 ,85.6628 ,85.7604 ,85.8578 ,85.9552 ,86.0524 ,86.1496 ,86.2467 ,86.3436 ,86.4404 ,86.5372 ,86.6338 ,86.7303 ,86.8268 ,86.9231 ,87.0193 ,87.1154 ,87.2114 ,87.3073 ,87.4031 ,87.4987 ,87.5943 ,87.6898 ,87.7851 ,87.8804 ,87.9755 ,88.0705 ,88.1654 ,88.2602 ,88.3549 ,88.4495 ,88.544 ,88.6384 ,88.7326 ,88.8267 ,88.9208 ,89.0147 ,89.1085 ,89.2022 ,89.2957 ,89.3892 ,89.4825 ,89.5758 ,89.6689 ,89.7619 ,89.8548 ,89.9476 ,90.0402 ,90.1328 ,90.2252 ,90.3175 ,90.4097 ,90.5018 ,90.5937 ,90.6856 ,90.7773 ,90.8689 ,90.9604 ,91.0517 ,91.143 ,91.2341 ,91.3251 ,91.416 ,91.5068 ,91.5974 ,91.688 ,91.7784 ,91.8687 ,91.9588 ,92.0489 ,92.1388 ,92.2286 ,92.3182 ,92.4078 ,92.4972 ,92.5865 ,92.6757 ,92.7647 ,92.8537 ,92.9425 ,93.0311 ,93.1197 ,93.2081 ,93.2964 ,93.3846 ,93.4726 ,93.5605 ,93.6483 ,93.736 ,93.8235 ,93.9109 ,93.9982 ,94.0854 ,94.1724 ,94.2593 ,94.346 ,94.4326 ,94.5191 ,94.6055 ,94.6917 ,94.7778 ,94.8638 ,94.9496 ,95.0354 ,95.1209 ,95.2064 ,95.2917 ,95.3768 ,95.4619 ,95.5468 ,95.6315 ,95.7162 ,95.8007 ,95.885 ,95.9693 ,96.0534 ,96.1373 ,96.2211 ,96.3048 ,96.3883 ,96.4717 ,96.555 ,96.6381 ,96.7211 ,96.804 ,96.8867 ,96.9692 ,97.0517 ,97.134 ,97.2161 ,97.2981 ,97.38 ,97.4617 ,97.5433 ,97.6247 ,97.706 ,97.7872 ,97.8682 ,97.949 ,98.0298 ,98.1103 ,98.1908 ,98.2711 ,98.3512 ,98.4312 ,98.511 ,98.5907 ,98.6703 ,98.7497 ,98.829 ,98.9081 ,98.9871 ,99.0659 ,99.1445 ,99.2231 ,99.3014 ,99.3797 ,99.4577 ,99.5356 ,99.6134 ,99.691 ,99.7685 ,99.8458 ,99.923 ,100]; 
+
 plot(x,y, "color", 'r');
 
 #axis('equal');

diff --git a/braquistocrona/var2/grafiquesVar2AmbRef.m b/braquistocrona/var2/grafiquesVar2AmbRef.m
@@ -4,12 +4,12 @@ t = linspace(0, pi*0.77, 30);
 r = 58;
 x = r*(t-sin(t));
 y = r*(1-cos(t));
-plot(x,y, "color", "g")
+plot(x,y, "color", "g"); hold;
 
 #10 punts amb refinació - blau
 x = [1e-12 ,9.99549e-08 ,0.301371 ,1.3215 ,3.52178 ,7.44755 ,13.7945 ,23.5375 ,38.2271 ,60.8648 ,100]; 
 y = [1e-12 ,1 ,4 ,9 ,16 ,25 ,36 ,49 ,64 ,81 ,100]; 
-plot(x,y, "color", 'b'); hold
+plot(x,y, "color", 'b');
 
 #50 punts amb refinació - magenta
 x = [1e-12 ,3.7838e-09 ,0.00227007 ,0.00984103 ,0.0257543 ,0.0530685 ,0.0948663 ,0.154261 ,0.234405 ,0.338495 ,0.469781 ,0.631578 ,0.827268 ,1.06032 ,1.33428 ,1.65281 ,2.01968 ,2.43879 ,2.91419 ,3.45006 ,4.0508 ,4.72097 ,5.46538 ,6.28906 ,7.19734 ,8.19585 ,9.29057 ,10.4879 ,11.7946 ,13.2181 ,14.7662 ,16.4475 ,18.2715 ,20.2483 ,22.3893 ,24.707 ,27.2153 ,29.93 ,32.8691 ,36.0529 ,39.5051 ,43.2536 ,47.3312 ,51.7777 ,56.642 ,61.9853 ,67.8868 ,74.4519 ,81.8274 ,90.2291 ,100]; 
